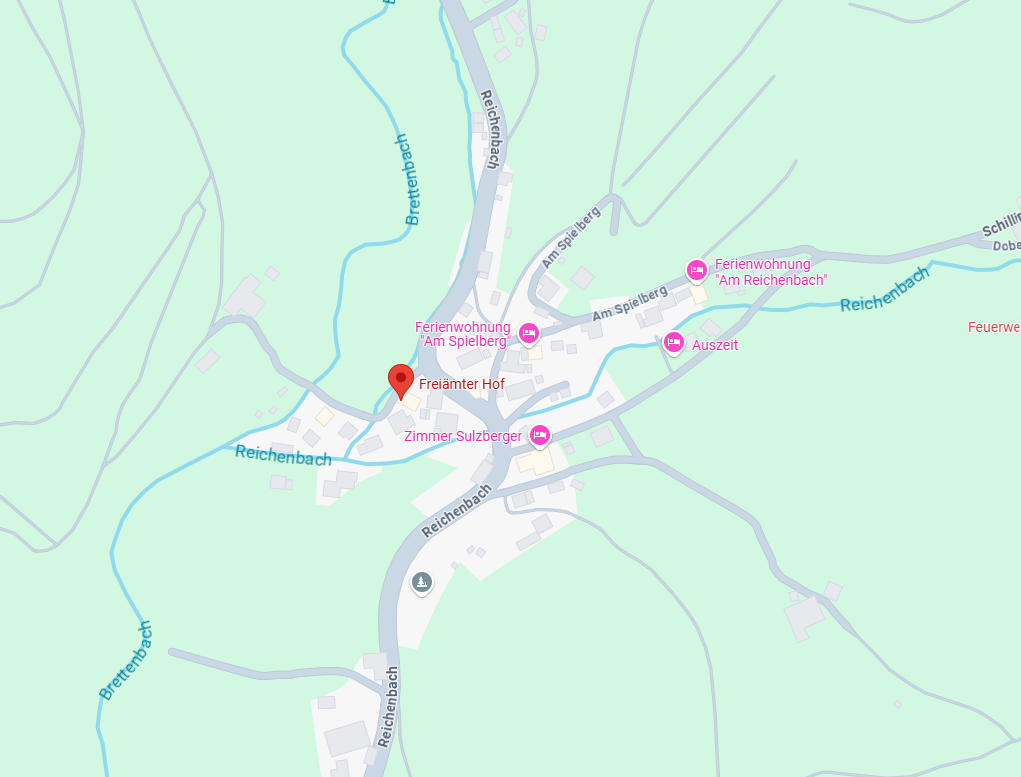
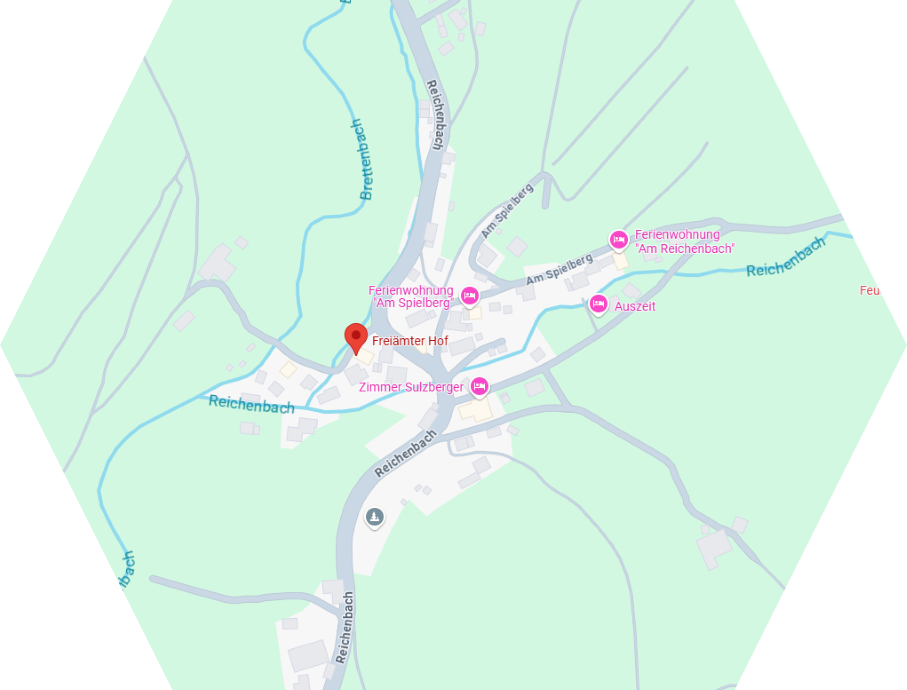
update all

diff --git a/styles.css b/styles.css
@@ -278,41 +278,6 @@ nav {
     text-align: center; /* Antworten mittig ausrichten */
 }
 
-.hexagon {
-    width: 160px; /* Breite des Hexagons */
-    height: 92.74px; /* Höhe des Hexagons */
-    position: relative; /* Position relativ für das Pseudoelement */
-    overflow: hidden; /* Überlauf verstecken */
-    margin: 0 20px; /* Abstand zwischen Bild und Text */
-}
-
-.hexagon img {
-    width: 200%; /* Breite auf 200% erhöhen, um das Hexagon auszufüllen */
-    height: auto; /* Höhe automatisch anpassen */
-    position: absolute; /* Bild positionieren */
-    top: 50%; /* Vertikal zentrieren */
-    left: 50%; /* Horizontal zentrieren */
-    transform: translate(-50%, -50%); /* Zentrieren */
-}
-
-.hexagon::before,
-.hexagon::after {
-    content: "";
-    position: absolute;
-    width: 0;
-    border-left: 80px solid transparent; /* Linker Teil des Sechsecks */
-    border-right: 80px solid transparent; /* Rechter Teil des Sechsecks */
-}
-
-.hexagon::before {
-    bottom: 100%; /* Oben */
-    border-bottom: 46.87px solid #EAB8E4; /* Farbe des oberen Teils */
-}
-
-.hexagon::after {
-    top: 100%; /* Unten */
-    border-top: 46.87px solid #EAB8E4; /* Farbe des unteren Teils */
-}
 
 @media (max-width: 600px) {
     .nav-right .hamburger {
@@ -344,9 +309,9 @@ nav {
     }
 
 .location-info img {
-    width: 160px; /* Breite auf 160px erhöhen */
+    width: 160px; /* Breite des Bildes */
     height: auto; /* Höhe automatisch anpassen */
-    margin: 0 20px; /* Abstand zwischen Bild und Text */
+    margin-right: 20px; /* Abstand zwischen Bild und Text */
 }
 
 .location-info div {

diff --git a/index.html b/index.html
@@ -118,13 +118,11 @@
         <h2>Unterkünfte</h2>
     </section>
     
- <div class="location-info">
+<div class="location-info">
     <h3>Freie Trauung und Hochzeitsfeier</h3>
     <div style="display: flex; align-items: center; justify-content: center;">
         <a href="https://www.google.com/maps/search/?api=1&query=Freiämter+Hof,+Reichenbach+10,+79348+Freiamt" target="_blank">
-            <div class="hexagon">
-                <img src="images/GoogleMaps_Freiamt.png" alt="Google Maps">
-            </div>
+            <img src="images/GoogleMaps_Freiamt.png" alt="Google Maps" style="width: 160px; height: auto; margin-right: 20px;"> <!-- Bild hier -->
         </a>
         <div style="text-align: center; margin-top: 20px;">
             <p>Adresse:<br>
